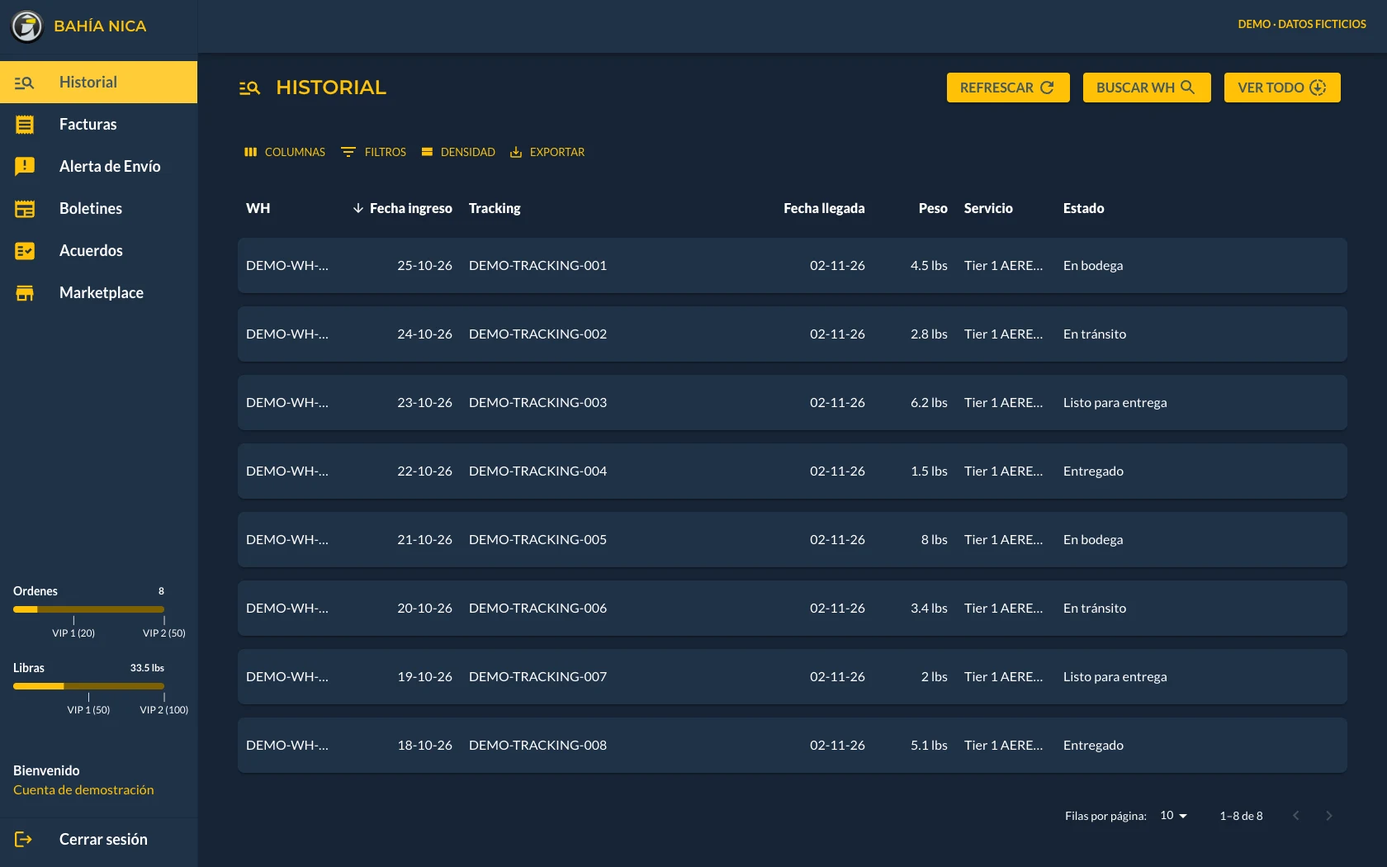
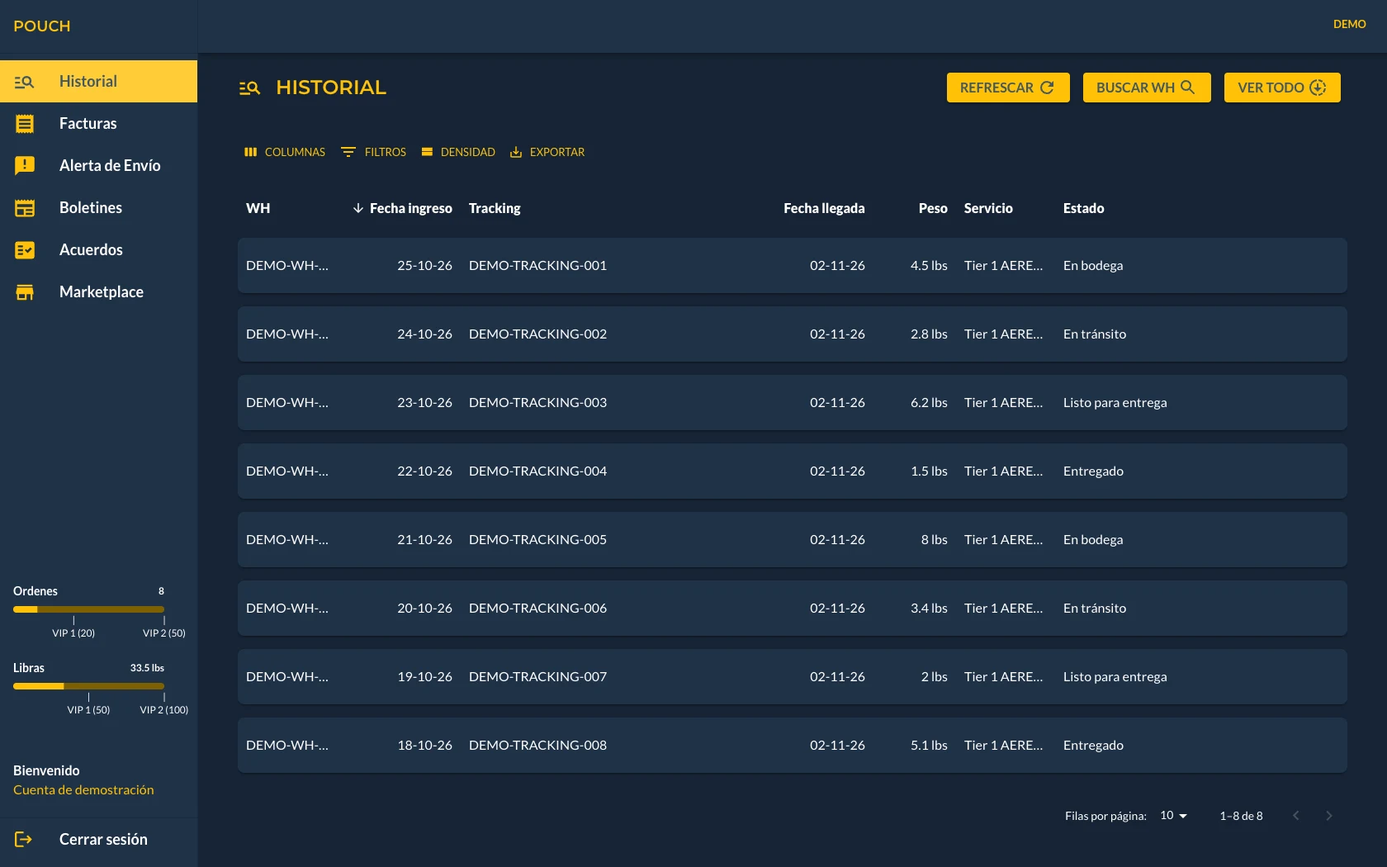
feat: complete project visuals and unify portfolio cases

diff --git a/src/data/client-projects.ts b/src/data/client-projects.ts
@@ -7,7 +7,7 @@ const currentCapture = (slug: string, name: string): ArchiveItem['preview'] => (
 
 const archivedCapture = (slug: string, name: string): ArchiveItem['preview'] => ({
   src: `/images/projects/${slug}.webp`, width: 1000, height: 1200, type: 'archived',
-  alt: { en: `Archived ${name} website capture`, es: `Captura histórica del website de ${name}` }
+  alt: { en: `${name} website`, es: `Website de ${name}` }
 });
 
 const freelanceCredit = {
@@ -17,14 +17,14 @@ const freelanceCredit = {
 
 const ivlCapture = (file: string, screen: { en: string; es: string }): NonNullable<ArchiveItem['preview']> => ({
   src: `/images/projects/${file}.webp`, width: 780, height: 1387, type: 'store',
-  alt: { en: `Studio IVL ${screen.en} promotional screen`, es: `Pantalla promocional de ${screen.es} de Studio IVL` },
-  caption: { en: `${screen.en} · archived public promotional capture`, es: `${screen.es} · captura promocional pública de archivo` }
+  alt: { en: `Studio IVL app · ${screen.en}`, es: `App Studio IVL · ${screen.es}` },
+  caption: screen
 });
 
 const pouchCapture = (file: string, screen: { en: string; es: string }): NonNullable<ArchiveItem['preview']> => ({
   src: `/images/projects/${file}.webp`, width: 1680, height: 1050, type: 'demo',
-  alt: { en: `Original Bahía Nica Portal ${screen.en} with synthetic demonstration records`, es: `${screen.es} del Portal original de Bahía Nica con registros ficticios de demostración` },
-  caption: { en: `${screen.en} · original Portal UI · synthetic demo data`, es: `${screen.es} · interfaz original del Portal · datos ficticios` }
+  alt: { en: `Pouch Portal · ${screen.en} with example data`, es: `Pouch Portal · ${screen.es} con datos de ejemplo` },
+  caption: screen
 });
 
 export const clientProjects: ArchiveItem[] = [
@@ -62,7 +62,7 @@ export const clientProjects: ArchiveItem[] = [
     source: { en: 'Freelance · legal website', es: 'Freelance · website legal' },
     role: { en: 'WordPress website development', es: 'Desarrollo de website WordPress' },
     summary: { en: 'A custom WordPress website developed for Ariel Law Group.', es: 'Website WordPress a medida desarrollado para Ariel Law Group.' },
-    details: { en: ['Implemented the custom Ariel Law Group theme.', 'Built the service and company presentation shown in the archived project capture.'], es: ['Implementación del tema a medida de Ariel Law Group.', 'Desarrollo de la presentación de servicios y del despacho que aparece en la captura histórica.'] },
+    details: { en: ['Implemented the custom Ariel Law Group theme.', 'Built pages for legal services, firm information and consultation requests.'], es: ['Implementación del tema a medida de Ariel Law Group.', 'Desarrollo de páginas de servicios legales, información del despacho y solicitudes de consulta.'] },
     credit: freelanceCredit, stack: ['WordPress', 'PHP', 'HTML', 'CSS'], preview: archivedCapture('ariel-law', 'Ariel Law Group')
   },
   {
@@ -71,7 +71,7 @@ export const clientProjects: ArchiveItem[] = [
     source: { en: 'Freelance · legal website', es: 'Freelance · website legal' },
     role: { en: 'Website development', es: 'Desarrollo web' },
     summary: { en: 'Legal-services website development for Hartunian Law Firm.', es: 'Desarrollo del website de servicios legales de Hartunian Law Firm.' },
-    details: { en: ['Developed the website represented in the archived project capture.', 'The archived design presents the firm, practice areas and consultation calls to action.'], es: ['Desarrollo del website mostrado en la captura histórica del proyecto.', 'La versión histórica presenta el despacho, sus áreas de práctica y las llamadas a consulta.'] },
+    details: { en: ['Developed the legal-services website.', 'Implemented the firm presentation, practice areas and consultation calls to action.'], es: ['Desarrollo del website de servicios legales.', 'Implementación de la presentación del despacho, sus áreas de práctica y las llamadas a consulta.'] },
     credit: freelanceCredit, stack: ['Web development', 'HTML', 'CSS', 'JavaScript'], preview: archivedCapture('hartunian-law', 'Hartunian Law Firm')
   },
   {
@@ -79,7 +79,7 @@ export const clientProjects: ArchiveItem[] = [
     source: { en: 'Freelance · services website', es: 'Freelance · website de servicios' },
     role: { en: 'Custom WordPress development', es: 'Desarrollo WordPress a medida' },
     summary: { en: 'A custom WordPress website for a pool-services business.', es: 'Website WordPress a medida para una empresa de servicios de piscinas.' },
-    details: { en: ['Implemented the custom Caban Pools WordPress theme.', 'Service presentation, project imagery and contact sections are preserved in the archived capture.'], es: ['Implementación del tema WordPress a medida de Caban Pools.', 'La captura histórica conserva la presentación de servicios, imágenes de proyectos y secciones de contacto.'] },
+    details: { en: ['Implemented the custom Caban Pools WordPress theme.', 'Built service pages, project galleries and contact sections.'], es: ['Implementación del tema WordPress a medida de Caban Pools.', 'Desarrollo de páginas de servicios, galerías de proyectos y secciones de contacto.'] },
     credit: freelanceCredit, stack: ['WordPress', 'PHP', 'HTML', 'CSS'], preview: archivedCapture('caban-pools', 'Caban Pools')
   },
   {
@@ -87,7 +87,7 @@ export const clientProjects: ArchiveItem[] = [
     source: { en: 'Freelance · fitness website', es: 'Freelance · website fitness' },
     role: { en: 'Custom WordPress development', es: 'Desarrollo WordPress a medida' },
     summary: { en: 'A custom WordPress website for Fit Factory Studio.', es: 'Website WordPress a medida de Fit Factory Studio.' },
-    details: { en: ['Developed the FitFactory WordPress theme.', 'Implemented the studio presentation and training-program sections shown in the archived capture.'], es: ['Desarrollo del tema WordPress FitFactory.', 'Implementación de la presentación del estudio y los programas de entrenamiento de la captura histórica.'] },
+    details: { en: ['Developed the FitFactory WordPress theme.', 'Implemented studio and training-program pages.'], es: ['Desarrollo del tema WordPress FitFactory.', 'Implementación de páginas del estudio y de sus programas de entrenamiento.'] },
     credit: freelanceCredit, stack: ['WordPress', 'PHP', 'HTML', 'CSS'], preview: archivedCapture('fit-factory', 'Fit Factory Studio')
   },
   {
@@ -95,7 +95,7 @@ export const clientProjects: ArchiveItem[] = [
     source: { en: 'Freelance · legal website', es: 'Freelance · website legal' },
     role: { en: 'Custom WordPress development', es: 'Desarrollo WordPress a medida' },
     summary: { en: 'A custom WordPress website for Sapetto Law.', es: 'Website WordPress a medida para Sapetto Law.' },
-    details: { en: ['Developed the SapettoLaw WordPress theme.', 'The project capture preserves the original service, firm and consultation presentation.'], es: ['Desarrollo del tema WordPress SapettoLaw.', 'La captura del proyecto conserva la presentación original de servicios, despacho y consultas.'] },
+    details: { en: ['Developed the SapettoLaw WordPress theme.', 'Implemented service pages, firm information and consultation sections.'], es: ['Desarrollo del tema WordPress SapettoLaw.', 'Implementación de páginas de servicios, información del despacho y secciones de consulta.'] },
     credit: freelanceCredit, stack: ['WordPress', 'PHP', 'HTML', 'CSS'], preview: archivedCapture('sapetto-law', 'Sapetto Law')
   },
   {
@@ -151,35 +151,24 @@ export const clientProjects: ArchiveItem[] = [
   },
   {
     slug: 'studio-ivl', name: 'Studio IVL · IVL Collective', kind: 'application', category: 'mobile', status: 'private',
-    source: { en: 'Mobile application', es: 'Aplicación móvil' },
-    role: { en: 'Mobile application development', es: 'Desarrollo de aplicación móvil' },
-    summary: { en: 'A React Native fitness application for IVL Collective, with workout classes, video playback and scheduling.', es: 'Aplicación fitness React Native para IVL Collective, con clases, reproducción de video y agenda.' },
-    details: { en: ['Built mobile screens and navigation with React Native and Expo.', 'Class discovery, instructor pages, schedules, favorites and video playback.', 'Profile, membership and notification experiences, with supporting CMS and backend projects.'], es: ['Desarrollo de pantallas y navegación con React Native y Expo.', 'Exploración de clases, instructores, agenda, favoritos y reproducción de video.', 'Experiencias de perfil, membresía y notificaciones, con proyectos de CMS y backend de soporte.'] },
-    credit: { en: 'Archived public promotional screens show the on-demand, class-detail and favorites experiences. Original listing watermarks are preserved; source code remains private.', es: 'Las capturas promocionales públicas de archivo muestran clases on-demand, detalle y favoritos. Se conservan las marcas de agua originales de la ficha; el código sigue siendo privado.' },
+    source: { en: 'Mobile application · built from scratch', es: 'Aplicación móvil · creada desde cero' },
+    role: { en: 'Mobile application development from scratch', es: 'Desarrollo de la aplicación móvil desde cero' },
+    summary: { en: 'Built the IVL Collective fitness app from scratch with React Native, bringing workout discovery, video classes and scheduling into one mobile experience.', es: 'Creé la app fitness de IVL Collective desde cero con React Native, integrando exploración de entrenamientos, clases en video y agenda en una experiencia móvil.' },
+    details: { en: ['Built the mobile application from the ground up with React Native and Expo, including its screen structure and navigation.', 'Class discovery, instructor pages, schedules, favorites and video playback.', 'Profile, membership and notification experiences, with supporting CMS and backend projects.'], es: ['Desarrollo de la aplicación móvil desde cero con React Native y Expo, incluyendo la estructura de pantallas y la navegación.', 'Exploración de clases, instructores, agenda, favoritos y reproducción de video.', 'Experiencias de perfil, membresía y notificaciones, con proyectos de CMS y backend de soporte.'] },
     stack: ['React Native', 'Expo', 'TypeScript', 'Firebase', 'Video'],
     preview: ivlCapture('ivl-classes', { en: 'On-demand classes', es: 'Clases on-demand' }),
     gallery: [ivlCapture('ivl-class-details', { en: 'Class details', es: 'Detalle de clase' }), ivlCapture('ivl-favorites', { en: 'Favorite classes', es: 'Clases favoritas' })]
   },
   {
-    slug: 'pouch', name: 'Pouch · Bahía Nica Portal', kind: 'application', category: 'product-systems', status: 'private',
-    source: { en: 'Shipping platform · full application', es: 'Plataforma de envíos · aplicación completa' },
+    slug: 'pouch', name: 'Pouch · Shipping & tracking', nameEs: 'Pouch · Envíos y seguimiento', kind: 'application', category: 'product-systems', status: 'private',
+    source: { en: 'Freelance · shipping platform', es: 'Freelance · plataforma de envíos' },
     role: { en: 'Full-stack application development', es: 'Desarrollo full-stack de la aplicación' },
-    summary: { en: 'The shipping and tracking application originally known as the Bahía Nica Portal, now Pouch.', es: 'La aplicación de envíos y tracking conocida originalmente como Portal de Bahía Nica, hoy Pouch.' },
-    details: { en: ['Developed the complete shipping/tracking application and supporting API.', 'Package reception, shipping alerts, invoices, manifests and dispatch receipts.', 'Customer and administrative workflows, package identification and location, and operational statistics.'], es: ['Desarrollo de la aplicación completa de envíos y tracking y su API de soporte.', 'Recepción de paquetes, alertas de envío, facturas, manifiestos y recibos de despacho.', 'Flujos para clientes y administración, identificación y localización de paquetes y estadísticas operativas.'] },
-    credit: { en: 'Screens show the original Bahía Nica Portal interface, now called Pouch. Original frontend components are rendered locally with synthetic records, not production data or a claim about the current Pouch interface.', es: 'Las pantallas muestran la interfaz original del Portal de Bahía Nica, hoy Pouch. Los componentes frontend originales se renderizaron localmente con registros ficticios, no datos de producción ni una representación de la interfaz actual de Pouch.' },
+    summary: { en: 'A complete shipping and tracking application built as a freelance engagement. Originally called Portal, the product is now known as Pouch.', es: 'Aplicación completa de envíos y seguimiento desarrollada como proyecto freelance. El producto, antes llamado Portal, hoy se conoce como Pouch.' },
+    details: { en: ['Developed the complete shipping and tracking application, supporting API and webhook services.', 'Package reception, shipping alerts, invoices, manifests and dispatch receipts.', 'Customer and agency management, role-based administration, package identification and location, and operational statistics.', 'Load calculation and import/export declaration workflows.'], es: ['Desarrollo de la aplicación completa de envíos y seguimiento, su API y servicios webhook.', 'Recepción de paquetes, alertas de envío, facturas, manifiestos y recibos de despacho.', 'Gestión de clientes y agencias, administración por roles, identificación y localización de paquetes y estadísticas operativas.', 'Cálculo de carga y flujos de declaraciones de importación y exportación.'] },
+    credit: { en: 'Screens from Portal, the earlier version of Pouch. Example data only.', es: 'Pantallas de Portal, la versión anterior de Pouch. Solo datos de ejemplo.' },
     stack: ['Next.js', 'React', 'TypeScript', 'Firebase', 'Node.js', 'Express'],
     preview: pouchCapture('pouch-receptions', { en: 'Shipment history', es: 'Historial de envíos' }),
     gallery: [pouchCapture('pouch-details', { en: 'Package details', es: 'Detalle de paquete' })]
-  },
-  {
-    slug: 'lighthouse', name: 'Lighthouse F&C', kind: 'application', category: 'product-systems', status: 'private',
-    source: { en: 'Lighthouse · logistics platform', es: 'Lighthouse · plataforma logística' },
-    role: { en: 'Web application and API development', es: 'Desarrollo de aplicación web y API' },
-    summary: { en: 'A logistics application for Lighthouse, covering shipment operations and agency workflows.', es: 'Aplicación logística para Lighthouse, con operaciones de envíos y flujos para agencias.' },
-    details: { en: ['Web application and supporting webhook/API services.', 'Shipment history, dispatch receipts, agency management and manifests.', 'Load calculation and import/export declaration workflows with role-based administrative navigation.'], es: ['Aplicación web y servicios de webhook/API de soporte.', 'Historial de envíos, recibos de despacho, gestión de agencias y manifiestos.', 'Cálculo de carga y declaraciones de importación/exportación con navegación administrativa según el rol.'] },
-    credit: { en: 'Private operational software; this case contains no production records or account links.', es: 'Software operativo privado; este caso no contiene registros de producción ni enlaces a cuentas.' },
-    stack: ['Next.js', 'React', 'TypeScript', 'Firebase', 'Node.js', 'Express'],
-    preview: { src: '/images/projects/lighthouse.webp', width: 441, height: 431, type: 'artwork', alt: { en: 'Lighthouse F&C original brand mark', es: 'Marca original de Lighthouse F&C' } }
   },
   {
     slug: 'myroadmap', name: 'MyRoadmap', category: 'product-systems', kind: 'archive',

diff --git a/src/data/project-visuals.ts b/src/data/project-visuals.ts
@@ -1,0 +1,47 @@
+import type { ArchiveItem, ProjectMedia } from './site';
+
+const concept = (slug: string, subject: { en: string; es: string }): ProjectMedia => ({
+  src: `/images/projects/${slug}-concept.webp`, width: 1586, height: 992, type: 'concept',
+  alt: { en: `Concept illustration: ${subject.en}`, es: `Ilustración conceptual: ${subject.es}` }
+});
+
+const frontend = (slug: string, name: string): ProjectMedia => ({
+  src: `/images/projects/${slug}.webp`, width: 1440, height: 1100, type: 'restored',
+  alt: { en: `${name} homepage`, es: `Inicio de ${name}` },
+  caption: { en: 'Homepage', es: 'Inicio' }
+});
+
+const projectVisuals: Record<string, Pick<ArchiveItem, 'preview' | 'gallery'>> = {
+  'agency-platform': { preview: concept('agency-platform', { en: 'Headless website architecture and connected content modules', es: 'Arquitectura web headless y módulos de contenido conectados' }) },
+  'asher-asher': { preview: frontend('asher-asher', 'Asher & Asher Consulting') },
+  'willow-creek': { preview: frontend('willow-creek', 'Willow Creek Productions') },
+  microtec: { preview: concept('microtec', { en: 'Website maintenance and modular updates', es: 'Mantenimiento web y actualizaciones modulares' }) },
+  myroadmap: { preview: concept('myroadmap', { en: 'A product roadmap with connected milestones', es: 'Una ruta de producto con hitos conectados' }) },
+  duepulse: { preview: concept('duepulse', { en: 'Household bills, payment planning and due dates', es: 'Facturas del hogar, planificación de pagos y vencimientos' }) },
+  depsaber: {
+    preview: {
+      src: '/images/projects/depsaber-console.webp', width: 1440, height: 1100, type: 'demo',
+      alt: { en: 'DepSaber report console with its public sample report', es: 'Consola de reportes de DepSaber con su reporte público de ejemplo' },
+      caption: { en: 'Report console · sample report', es: 'Consola de reportes · ejemplo' }
+    },
+    gallery: [{
+      src: '/images/projects/depsaber-site.webp', width: 1440, height: 1100, type: 'current',
+      alt: { en: 'DepSaber public project website', es: 'Website público del proyecto DepSaber' },
+      caption: { en: 'Project website', es: 'Website del proyecto' }
+    }]
+  },
+  'time-weaver': { preview: concept('time-weaver', { en: 'Code and calendar activity flowing into timesheet automation', es: 'Actividad de código y calendario conectada con la automatización de horas' }) },
+  'uni-sciences-systems': { preview: concept('uni-sciences-systems', { en: 'Connected knowledge and engineering systems', es: 'Conocimiento conectado y sistemas de ingeniería' }) },
+  'tpf-supervisor': { preview: concept('tpf-supervisor', { en: 'Staff shift planning, attendance and hours ledgers', es: 'Planificación de turnos, asistencia y registro de horas' }) },
+  'editorial-pwa': { preview: concept('editorial-pwa', { en: 'Editorial publishing transformed into a mobile PWA', es: 'Publicación editorial transformada en una PWA móvil' }) },
+  'better-nice-produce': { preview: concept('better-nice-produce', { en: 'Produce inventory, ecommerce and distribution', es: 'Inventario, ecommerce y distribución de productos agrícolas' }) },
+  'steps-veterinary': { preview: frontend('steps-veterinary', 'Steps Clínica Veterinaria') },
+  'license-key-generator': { preview: concept('license-key-generator', { en: 'Device-bound software licensing and authorization', es: 'Licencias de software y autorización vinculadas a dispositivos' }) },
+  'voces-del-sur': { preview: concept('voces-del-sur', { en: 'Regional reporting and press freedom in Latin America', es: 'Reportes regionales y libertad de prensa en América Latina' }) },
+  'farmacia-josefina': { preview: concept('farmacia-josefina', { en: 'Pharmacy inventory and billing operations', es: 'Inventario y facturación de farmacia' }) },
+  nicaventura: { preview: concept('nicaventura', { en: 'A tourism journey through lakes and volcanic landscapes', es: 'Un recorrido turístico por lagos y paisajes volcánicos' }) }
+};
+
+export function withProjectVisuals(items: ArchiveItem[]): ArchiveItem[] {
+  return items.map((item) => item.preview ? item : { ...item, ...projectVisuals[item.slug] });
+}

diff --git a/src/data/site.ts b/src/data/site.ts
@@ -1,5 +1,6 @@
 import { additionalProjects, recentProjects } from './projects.ts';
 import { clientProjects } from './client-projects.ts';
+import { withProjectVisuals } from './project-visuals.ts';
 
 export type Lang = 'en' | 'es';
 export type MissionId = 'leadership' | 'product' | 'web-engineering' | 'automation' | 'frontend' | 'contact';
@@ -26,7 +27,7 @@ export interface ProjectMedia {
   height: number;
   alt: { en: string; es: string };
   caption?: { en: string; es: string };
-  type: 'current' | 'archived' | 'artwork' | 'demo' | 'store';
+  type: 'current' | 'archived' | 'restored' | 'demo' | 'store' | 'concept';
 }
 
 export interface ArchiveItem {
@@ -245,7 +246,7 @@ export const archiveFilters: Record<Lang, ArchiveFilter[]> = {
   ]
 };
 
-export const archiveItems: ArchiveItem[] = [
+export const archiveItems: ArchiveItem[] = withProjectVisuals([
   ...clientProjects,
   ...recentProjects,
   {
@@ -375,10 +376,20 @@ export const archiveItems: ArchiveItem[] = [
       en: ['Developed websites with HTML, Sass, Bootstrap, PencilBlue CMS, Photoshop, and Illustrator.', 'Built custom WordPress themes from Adobe XD UI/UX designs.', 'Recognized as Top Web Designer of the Year 2017 at Accedo Technologies.'],
       es: ['Desarrollo con HTML, Sass, Bootstrap, PencilBlue CMS, Photoshop e Illustrator.', 'Temas WordPress a medida desde diseños UI/UX en Adobe XD.', 'Reconocido como Top Web Designer of the Year 2017 en Accedo Technologies.']
     },
-    stack: ['HTML', 'Sass', 'Bootstrap', 'WordPress', 'PencilBlue']
+    stack: ['HTML', 'Sass', 'Bootstrap', 'WordPress', 'PencilBlue'],
+    preview: {
+      src: '/images/projects/acadia-careers.webp', width: 1440, height: 1150, type: 'restored',
+      alt: { en: 'Acadia Healthcare careers homepage', es: 'Inicio del career site de Acadia Healthcare' },
+      caption: { en: 'Acadia Healthcare · careers homepage', es: 'Acadia Healthcare · inicio de empleos' }
+    },
+    gallery: [{
+      src: '/images/projects/acadia-culture.webp', width: 1440, height: 1150, type: 'restored',
+      alt: { en: 'Acadia Healthcare culture page', es: 'Página de cultura de Acadia Healthcare' },
+      caption: { en: 'Acadia Healthcare · culture page', es: 'Acadia Healthcare · cultura' }
+    }]
   },
   ...additionalProjects
-];
+]);
 
 export const timelineItems: Record<Lang, TimelineItem[]> = {
   en: [

diff --git a/src/styles/projects.css b/src/styles/projects.css
@@ -23,8 +23,7 @@
 .project-media { position: relative; display: block; width: 100%; aspect-ratio: 16 / 10; overflow: hidden; background: #151719; }
 .project-media img { display: block; width: 100%; height: 100%; object-fit: cover; object-position: top; transition: object-position 1.2s ease, transform .6s ease; }
 .project-media:hover img { object-position: center; }
-.project-media--artwork { background: #e8ebed; }
-.project-media--artwork img { object-fit: contain; padding: 28px; }
+.project-media--concept img { object-position: center; }
 .project-media__screens { display: grid; grid-template-columns: repeat(3, minmax(0, 1fr)); gap: 12px; height: 100%; padding: 16px; background: #e4c0bc; }
 .project-media__screens img { object-fit: contain; object-position: center; }
 .project-media > span { position: absolute; right: 12px; bottom: 12px; padding: 6px 9px; color: #fff; background: #111e; font: 10px/1.4 var(--font-mono); }
@@ -55,8 +54,6 @@
 .case-captures--mobile figcaption { flex-wrap: wrap; gap: 8px; }
 .case-media { margin: 0; min-width: 0; }
 .case-media img { display: block; width: 100%; height: auto; max-height: 1000px; object-fit: contain; object-position: top; background: #101214; }
-.case-media--artwork > a { display: flex; justify-content: center; background: #e8ebed; }
-.case-media--artwork img { width: 100%; max-width: 580px; height: 350px; object-fit: contain; padding: 48px; background: none; }
 .case-media figcaption { display: flex; justify-content: space-between; gap: 24px; padding: 14px 0; color: var(--color-dim); font: 11px/1.6 var(--font-mono); }
 .case-media figcaption a { color: var(--color-muted); display: inline-flex; gap: 12px; flex-shrink: 0; }
 .case-scope { display: grid; grid-template-columns: minmax(0, 1.7fr) minmax(0, 1fr); gap: 80px; margin-top: 54px; padding: 44px 0 64px; border-top: 1px solid var(--color-line); }
@@ -87,7 +84,6 @@
   .case-summary { font-size: 16px; }
   .case-context { font-size: 10px; }
   .case-intro__bottom { align-items: start; flex-direction: column; gap: 22px; }
-  .case-media--artwork img { height: 260px; padding: 32px; }
   .case-captures--mobile { grid-template-columns: minmax(0, 1fr); max-width: 390px; margin-inline: auto; }
   .project-media__screens { padding: 10px; gap: 6px; }
   .case-media figcaption { flex-wrap: wrap; gap: 8px; font-size: 10px; }

diff --git a/src/lib/project-media.ts b/src/lib/project-media.ts
@@ -1,12 +1,12 @@
 import type { Lang, ProjectMedia } from '../data/site';
 
 const labels: Record<Lang, Record<ProjectMedia['type'], string>> = {
-  en: { current: 'Current public site', archived: 'Project archive', artwork: 'Original project artwork', demo: 'Original UI · demo data', store: 'Archived promotional screens' },
-  es: { current: 'Sitio público actual', archived: 'Archivo del proyecto', artwork: 'Arte original del proyecto', demo: 'Interfaz original · datos ficticios', store: 'Capturas promocionales de archivo' }
+  en: { current: 'Website', archived: 'Historical website', restored: 'Historical website', demo: 'App · demo data', store: 'Mobile app', concept: 'Concept' },
+  es: { current: 'Sitio web', archived: 'Website histórico', restored: 'Website histórico', demo: 'App · datos de ejemplo', store: 'App móvil', concept: 'Concepto' }
 };
 
 export function projectMediaLabel(media: ProjectMedia, lang: Lang, detailed = false): string {
+  if (media.type === 'concept' && detailed) return lang === 'en' ? 'Concept illustration' : 'Ilustración conceptual';
   if (detailed && media.caption) return media.caption[lang];
-  if (detailed && media.type === 'current') return lang === 'en' ? 'Public website capture · November 2026' : 'Captura del sitio público · noviembre 2026';
   return labels[lang][media.type];
 }

diff --git a/src/data/projects.ts b/src/data/projects.ts
@@ -82,6 +82,7 @@ export const additionalProjects: ArchiveItem[] = [
   },
   {
     slug: 'nicaragua-tattoos',
+    kind: 'website',
     name: 'Nicaragua Tattoos',
     category: 'web',
     year: '2016 - 2022',
@@ -94,7 +95,12 @@ export const additionalProjects: ArchiveItem[] = [
       en: ['Website development and maintenance with PHP, HTML, Sass, Bootstrap, and jQuery.', 'YouTube and Instagram APIs brought social and video content into the website.'],
       es: ['Desarrollo y mantenimiento con PHP, HTML, Sass, Bootstrap y jQuery.', 'Integración de contenido social y video mediante las APIs de YouTube e Instagram.']
     },
-    stack: ['PHP', 'Sass', 'jQuery', 'YouTube API', 'Instagram API']
+    stack: ['PHP', 'Sass', 'jQuery', 'YouTube API', 'Instagram API'],
+    preview: {
+      src: '/images/projects/nicaragua-tattoos.webp', width: 1440, height: 1150, type: 'restored',
+      alt: { en: 'Nicaragua Tattoos homepage', es: 'Inicio de Nicaragua Tattoos' },
+      caption: { en: 'Homepage', es: 'Inicio' }
+    }
   },
   {
     slug: 'license-key-generator',
